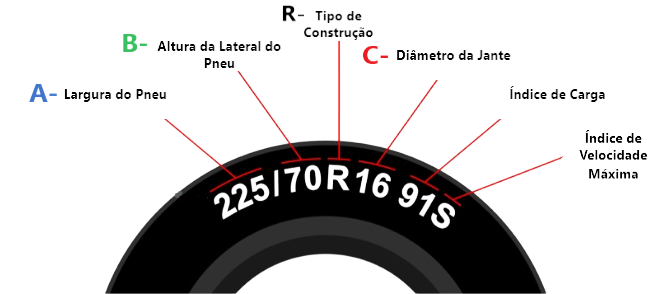
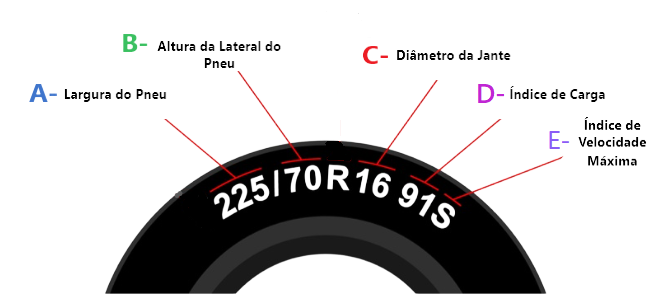
helpGuide component for modules

diff --git a/src/components/tiresConfig/configPage/tireConfig.jsx b/src/components/tiresConfig/configPage/tireConfig.jsx
@@ -4,8 +4,11 @@ import { BsChevronDown, BsChevronUp } from 'react-icons/bs'
 
 import './tireConfigStyle.css';
 
+import HelpGuide from "../../Modals/HelpGuide/HelpGuide";
+
 import TireDimension from './configContent/tireDimension';
 import TireVehicleModel from './configContent/tireVehicle';
+
 
 import seasonSummer from './configAssets/sunny.png';
 import seasonWinter from './configAssets/snowflake.png'
@@ -39,6 +42,14 @@ const TireConfig = ({ onClose, modal }) => {
         setShowSeasonGuide(!showSeasonGuide);
     };
 
+    useEffect(() => {
+        document.addEventListener('mousedown', onClientClickOutside);
+    
+        return () => {
+            document.removeEventListener('mousedown', onClientClickOutside);
+        };
+    }, []);
+
     const tireSummerImage = () => {
         return <img 
             src={seasonSummer} 
@@ -59,14 +70,6 @@ const TireConfig = ({ onClose, modal }) => {
             alt="universal tire"
         />
     };
-
-    useEffect(() => {
-        document.addEventListener('mousedown', onClientClickOutside);
-    
-        return () => {
-            document.removeEventListener('mousedown', onClientClickOutside);
-        };
-    }, []);
 
     const onClientClickOutside = (e) => {
         if(searchPageContentArea.current && !searchPageContentArea.current.contains(e.target)) {
@@ -159,67 +162,33 @@ const TireConfig = ({ onClose, modal }) => {
                             </div>
 
                             {
-                                showSeasonGuide &&
-                                <div className="tireSeasonGuideContent">
-                                    <div className="tireSeasonSummer mt-5 flex items-start">
-                                        <div className="tireSeasonSummerIcon w-26 md:w-24">
-                                        {
-                                            tireSummerImage()
-                                        }
-                                        </div>
-                                        <div className="tireSeasonSummerContent px-5">
-                                            <div className="summerContentTitle flex flex-col">
-                                                <span className="font-semibold">Abril &mdash; Setembro</span>
-                                                <span className="text-gray-400 text-[12px]">04 &mdash; 09</span>
-                                            </div>
-                                            <div className="summerContentDescription">
-                                                <p>
-                                                    Este pneu padrão permite uma condução segura em todas as condições climáticas temperadas, mas é importante lembrar que pneus de verão podem perder desempenho em temperaturas abaixo de 7°C.
-                                                </p>
-                                            </div>
-                                        </div>
-                                    </div>
+                                showSeasonGuide && 
+                                <div className="tireSeasonContent mt-5">
 
-                                    <div className="tireSeasonWinter mt-5 flex items-start">
-                                        <div className="tireSeasonWinterIcon w-26 md:w-24">
-                                        {
-                                            tireWinterSeason()
-                                        }
-                                        </div>
-                                        <div className="tireSeasonWinterContent px-5">
-                                            <div className="winterContentTitle flex flex-col">
-                                                <span className="font-semibold">Outubro &mdash; Março</span>
-                                                <span className="text-gray-400 text-[12px]">10 &mdash; 03</span>
-                                            </div>
-                                            <div className="WinterContentDescription">
-                                                <p>
-                                                Se a temperatura média de inverno na sua região é inferior a 7°C, é essencial utilizar pneus de inverno para garantir uma condução segura em estradas escorregadias, molhadas, cobertas de neve ou gelo.
-                                                </p>
-                                            </div>
-                                        </div>
-                                    </div>
+                                    <HelpGuide 
+                                        img={seasonSummer}
+                                        title={`Abril \u2014 Setembro`}
+                                        subTitle={'04 \u2014 09'}
+                                        content={'Este pneu padrão permite uma condução segura em todas as condições climáticas temperadas, mas é importante lembrar que pneus de verão podem perder desempenho em temperaturas abaixo de 7°C.'}
+                                        />
 
-                                    <div className="tireSeasonSummer mt-5 flex items-start">
-                                        <div className="tireSeasonSummerIcon w-26 md:w-24">
-                                        {
-                                            tireUniversalImage()
-                                        }
-                                        </div>
-                                        <div className="tireSeasonSummerContent px-5">
-                                            <div className="summerContentTitle flex flex-col">
-                                                <span className="font-semibold">Todas as estações</span>
-                                            </div>
-                                            <div className="summerContentDescription">
-                                                <p>
-                                                    Em áreas onde as temperaturas de inverno raramente caem abaixo de 7°C, os pneus 4 estações ainda são menos eficientes do que os pneus de inverno em condições de inverno, ou os pneus de verão em condições de verão.
-                                                </p>
-                                            </div>
-                                        </div>
-                                    </div>
+                                    <HelpGuide 
+                                        className={'mt-5'}
+                                        img={seasonWinter}
+                                        title={`Outubro \u2014 Março`}
+                                        subTitle={'10 \u2014 03'}
+                                        content={'Se a temperatura média de inverno na sua região é inferior a 7°C, é essencial utilizar pneus de inverno para garantir uma condução segura em estradas escorregadias, molhadas, cobertas de neve ou gelo.'}
+                                        />
+
+                                    <HelpGuide 
+                                        className={'mt-5'}
+                                        img={seasonUniversal}
+                                        title={`Todas as estações`}
+                                        content={'Em áreas onde as temperaturas de inverno raramente caem abaixo de 7°C, os pneus 4 estações ainda são menos eficientes do que os pneus de inverno em condições de inverno, ou os pneus de verão em condições de verão.'}
+                                        />
+
                                 </div>
                             }
-
-                     
                         </div>
 
                     </div>

diff --git a/src/components/tiresConfig/configPage/configContent/tireDimension.jsx b/src/components/tiresConfig/configPage/configContent/tireDimension.jsx
@@ -21,22 +21,20 @@ const tireConfigSpecification = {
 let tireConfigLetter = [
     'A',
     'B',
-    'R',
     'C',
-    '',
-    ''
+    'D',
+    'E'
 ]
 let tireConfigLetterColor = [
     'text-blue-400',
     'text-green-400',
-    'text-gray-800',
     'text-red-400',
-    '', ''
+    'text-fuchsia-700', 
+    'text-violet-600'
 ]
 let tireConfigContent = [
     'Largura do Pneu',
     'Altura do Pneu',
-    'Tipo de Construção',
     'Diâmetro da Jante',
     'Índice de Carga',
     'Índice de Velocidade Máxima'
@@ -70,6 +68,13 @@ const TireDimension = () => {
                 setTireConfig((prevState) => ({
                     ...prevState,
                     tireHeigth: amount
+                }));
+                break;
+            }
+            case 'diameter': {
+                setTireConfig((prevState) => ({
+                    ...prevState,
+                    tireDiameter: amount
                 }));
                 break;
             }
@@ -139,21 +144,44 @@ const TireDimension = () => {
 
                     {
                         tireDimensionConfigStep == 3 &&
-                        <div className="tireConfigDiameter"></div>
+                        <div className="tireConfigDiameter">
+                            <ul className="list-none w-auto h-auto flex flex-wrap justify-center">
+                                {
+                                    tireConfigSpecification.diametro.map((tireDiameter, tireIndex) => {
+                                        return <li 
+                                            className="text-black text-center rounded text-lg m-2 p-3 w-[7rem] bg-gray-200 border-[1px] border-gray-300 focus:outline-none hover:bg-slate-300 cursor-pointer"
+                                            onClick={() => onClientConfigTire('diameter', tireDiameter)}
+                                            key={tireIndex}
+                                            >
+                                            {tireDiameter}
+                                        </li>
+                                    })
+                                }
+                            </ul>
+                        </div>
                     }
 
                     {
                         tireDimensionConfigStep == 4 &&
-                        <div className="tireConfigIndice"></div>
+                        <div className="tireConfigIndice">
+                            <ul className="list-none w-auto h-auto flex flex-wrap justify-center">
+                                {
+                                    tireConfigSpecification.indiceCarga.map((tireDiameter, tireIndex) => {
+                                        return <li 
+                                            className="text-black text-center rounded text-lg m-2 p-3 w-[7rem] bg-gray-200 border-[1px] border-gray-300 focus:outline-none hover:bg-slate-300 cursor-pointer"
+                                            onClick={() => onClientConfigTire('diameter', tireDiameter)}
+                                            key={tireIndex}
+                                            >
+                                            {tireDiameter}
+                                        </li>
+                                    })
+                                }
+                            </ul>
+                        </div>
                     }
 
                     {
                         tireDimensionConfigStep == 5 &&
-                        <div className="tireConfigIndiceCharge"></div>
-                    }
-
-                    {
-                        tireDimensionConfigStep == 6 &&
                         <div className="tireConfigIndiceSpeed"></div>
                     }
                 </div>
@@ -175,15 +203,14 @@ const TireDimension = () => {
                         <button onClick={() => handleClientTirePage(3)} className={`tireConfigPage mx-1 relative w-[7px] h-[7px] rounded-full bg-gray-300 ${tireDimensionConfigStep == 3 ? 'bg-gray-500' : ''}`}></button>
                         <button onClick={() => handleClientTirePage(4)} className={`tireConfigPage mx-1 relative w-[7px] h-[7px] rounded-full bg-gray-300 ${tireDimensionConfigStep == 4 ? 'bg-gray-500' : ''}`}></button>
                         <button onClick={() => handleClientTirePage(5)} className={`tireConfigPage mx-1 relative w-[7px] h-[7px] rounded-full bg-gray-300 ${tireDimensionConfigStep == 5 ? 'bg-gray-500' : ''}`}></button>
-                        <button onClick={() => handleClientTirePage(6)} className={`tireConfigPage mx-1 relative w-[7px] h-[7px] rounded-full bg-gray-300 ${tireDimensionConfigStep == 6 ? 'bg-gray-500' : ''}`}></button>
                     </div>
 
                 </div>
 
                 <div className="tireConfigSearch w-full mt-10">
                     <button 
-                        className={`w-full flex justify-center items-center text-center rounded p-3 bg-blue-300 focus:outline-none ${tireDimensionConfigStep <= 5 ? 'cursor-not-allowed': 'hover:bg-blue-400'}`}
-                        disabled={tireDimensionConfigStep <= 5}
+                        className={`w-full flex justify-center items-center text-center rounded p-3 bg-blue-300 focus:outline-none ${tireDimensionConfigStep <= 4 ? 'cursor-not-allowed': 'hover:bg-blue-400'}`}
+                        disabled={tireDimensionConfigStep <= 4}
                         >
                         <span className="btnContent uppercase pr-2 text-lg">search</span>
                         <span className="btnIcon"><BsSearch /></span>

diff --git a/src/components/Modals/HelpGuide/HelpGuide.jsx b/src/components/Modals/HelpGuide/HelpGuide.jsx
@@ -1,0 +1,29 @@
+const HelpGuide = ({className, img, title, subTitle, content}) => {
+    return (
+        <>
+            <div className={`helpGuideContainer ${className} flex items-start`}>
+                <div className="helpGuideContentIcon w-26 md:w-24">
+                    <img 
+                        src={img} 
+                        alt="helpGuide image"/>
+                </div>
+
+                <div className="helpGuideContent px-5">
+                    <div className="helpContentTitle flex flex-col">
+                        <span className="font-semibold">{title}</span>
+                        {
+                            subTitle &&
+                            <span className="text-gray-400 text-[12px]">{subTitle}</span>
+                        }
+                    </div>
+                    <div className="helpContentDescription">
+                        <p>
+                            {content}
+                        </p>
+                    </div>
+                </div>
+            </div>
+        </>
+    )
+};
+export default HelpGuide;
